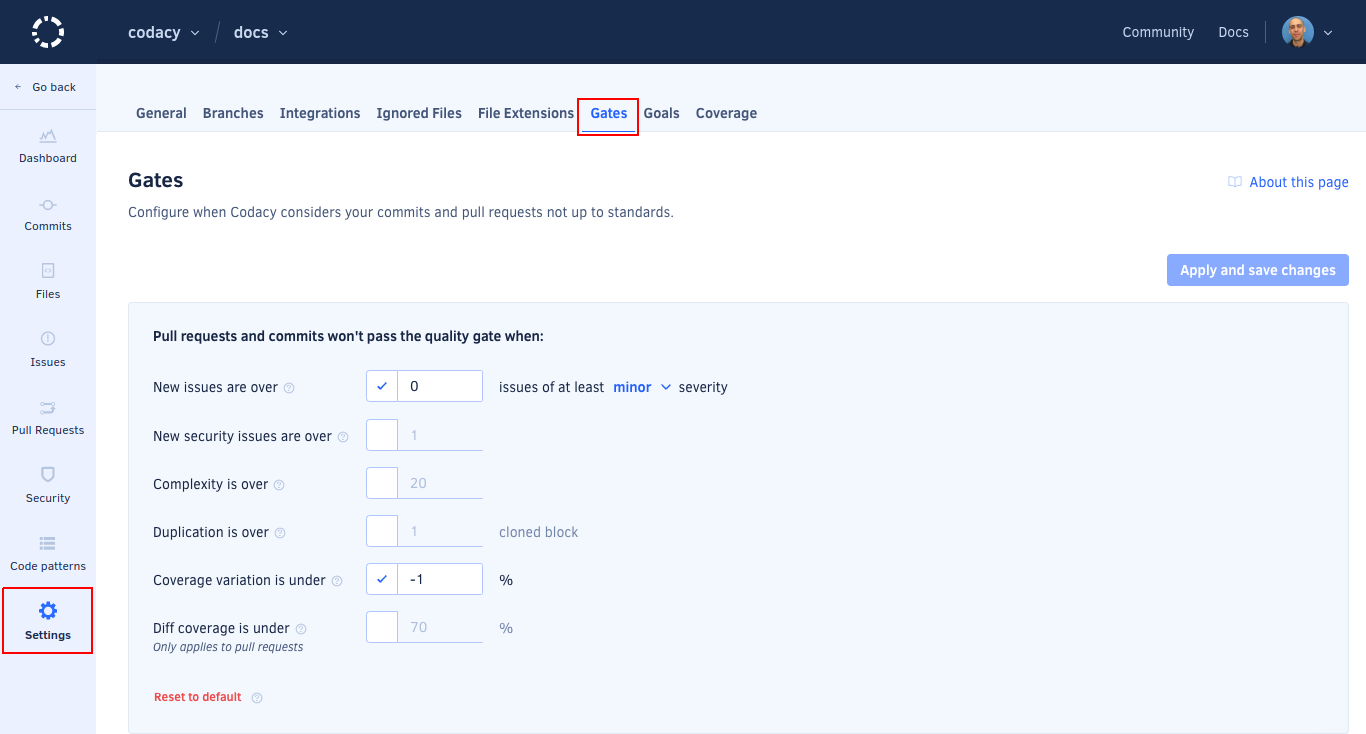
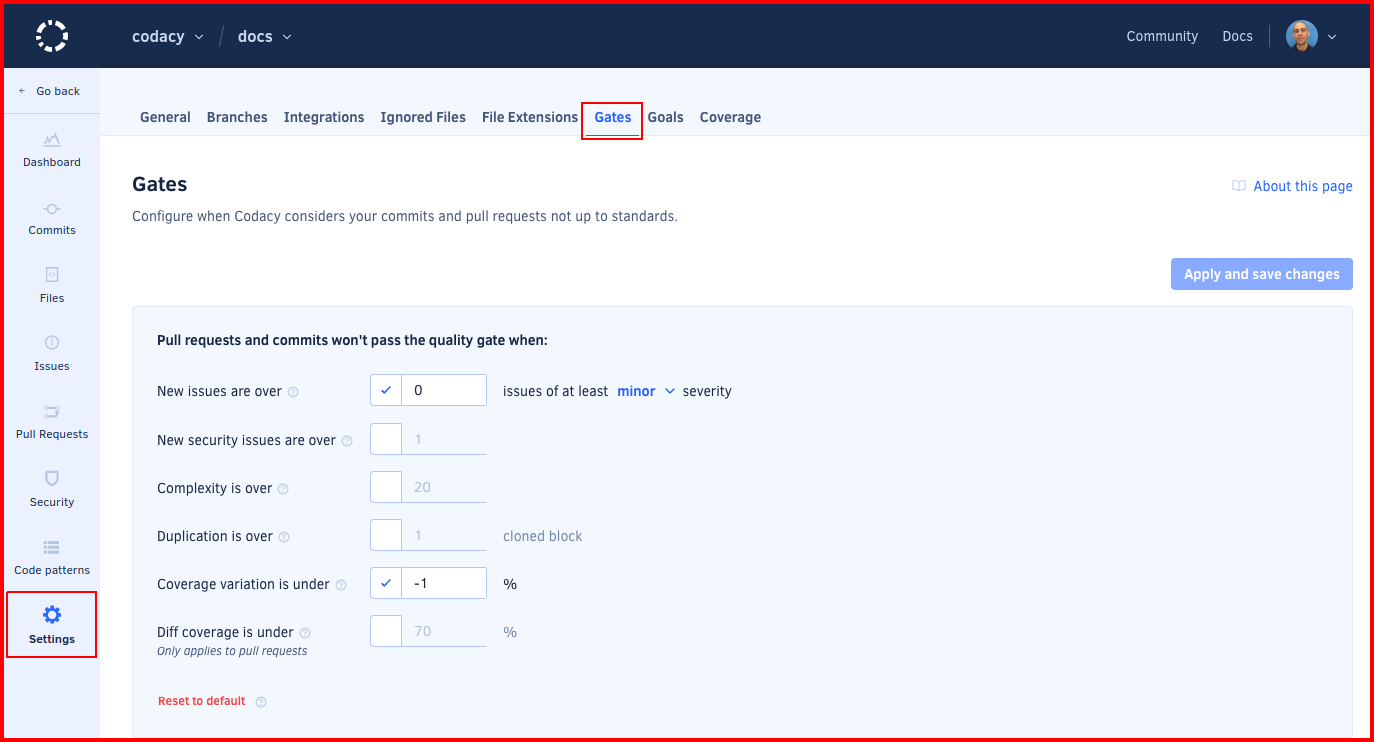
wip: Signalize screenshot to update. Add link to gate policy creation

diff --git a/docs/repositories-configure/adjusting-quality-gates.md b/docs/repositories-configure/adjusting-quality-gates.md
@@ -2,7 +2,7 @@
 
 The **quality gates** of your repository configure when Codacy reports your pull requests and commits as not up to standards.
 
-When you add your repository to Codacy, it automatically follows the [default gate policy for your organization](../organizations/using-gate-policies.md). If you want to set different quality gates for the repository, create a new organization gate policy to apply to the repository.
+When you add your repository to Codacy, it automatically follows the [default gate policy for your organization](../organizations/using-gate-policies.md). If you want to set different quality gates for the repository, [create a new organization gate policy](../organizations/using-gate-policies.md#creating) to apply to the repository.
 
 !!! important
     Although you can define custom quality gate settings for a specific repository, we recommend that you always [use a gate policy](../organizations/using-gate-policies.md) defined by your organization for consistency across repositories.
@@ -14,7 +14,7 @@ Depending on the result of applying the quality gate rules, Codacy updates the c
 
 To access the quality gates, open your repository **Settings**, tab **Gates**. The following screenshot displays the default configuration values:
 
-![Quality gates](images/quality-settings-gates.png)
+![Quality gates](images/quality-settings-gates.png)<!--TODO PLUTO-505 Update screenshot-->
 
 -   **New issues are over:** Pull requests or commits are marked not up to standards if the number of issues introduced that have at least the specified severity level is higher than the set value.
 -   **New security issues are over:** Pull requests or commits are marked not up to standards if the number of security issues introduced is higher than the set value.
